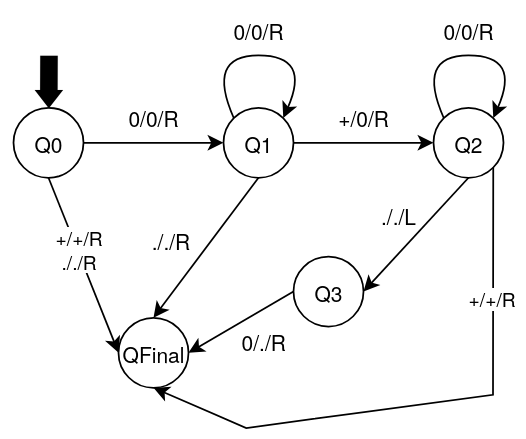
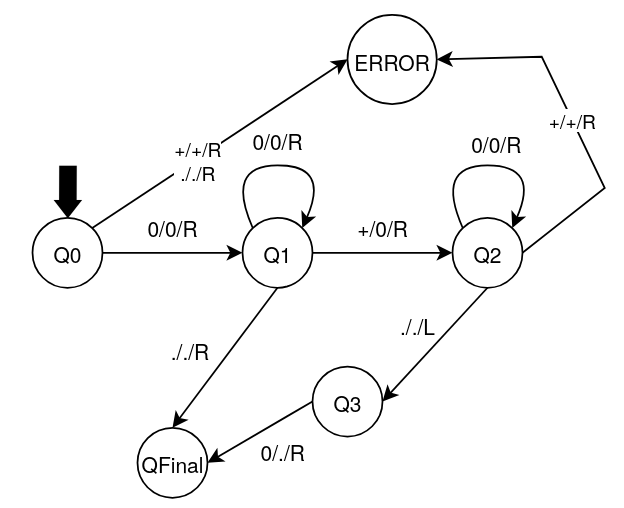
Modify unit test, add a root README and error state to unary_addition machine

diff --git a/README.md b/README.md
@@ -1,2 +1,89 @@
-# 42_ft_turing
-The goal of this project is to write a program able to simulate a single headed, single tape Turing machine from a machine description provided in json.
+# 42 Project - Ft_Turing
+
+## Project Overview
+
+This project implements a Turing Machine simulator using Haskell language, that allows users to define, execute, and visualize Turing Machine computations. A Turing Machine is a fundamental concept in computer science that demonstrates the theoretical limits of computation.
+
+### Features
+
+- Define custom Turing Machine configurations in a json file
+- Execute step-by-step computations
+- Visualize tape operations and state transitions
+
+### Installation Steps
+
+1. Clone the repository:
+   ```bash
+   git clone "REPOSITORY" ft_turing
+   cd ft_turing
+   ```
+
+2. Install dependencies:
+   ```bash
+   cd ressources
+   ./install_tools.sh
+   ```
+
+Tools installed:
+- ghcup 0.1.50.2
+- ghc   9.6.7
+- cabal 3.12.1.0
+
+## Compilation and Execution
+
+### Compiling the Project
+
+```bash
+cabal build
+```
+
+### Running the Project
+
+```bash
+cabal run ftTuring -- "machine.json" "input"
+```
+
+or manually
+```bash
+./dist-newstyle/build/x86_64-linux/ghc-9.6.7/ftTuring-0.1.0.0/x/ftTuring/build/ftTuring/ftTuring --help
+./dist-newstyle/build/x86_64-linux/ghc-9.6.7/ftTuring-0.1.0.0/x/ftTuring/build/ftTuring/ftTuring "machine.json" "input"
+```
+
+### Running Test
+
+```bash
+cabal test
+```
+
+## What is a Turing Machine?
+
+A **Turing Machine** is a mathematical model of computation introduced by Alan Turing in 1936. It serves as a theoretical foundation for understanding what can and cannot be computed.
+
+### Components
+
+A Turing Machine consists of:
+
+1. **Tape**: An infinite strip divided into cells, each containing a symbol from a finite alphabet
+2. **Head**: A read/write mechanism that can move left or right along the tape
+3. **State Register**: Stores the current state of the machine from a finite set of states
+4. **Transition Function**: Defines the machine's behavior based on the current state and symbol
+
+### How It Works
+
+The machine operates in discrete steps:
+
+1. Read the symbol at the current tape position
+2. Based on the current state and symbol, the transition function determines:
+   - A symbol to write at the current position
+   - A direction to move the head (left or right)
+   - The next state to transition to
+3. Repeat until reaching a halt state
+
+## Authors
+
+- **V0lk7 - jduval** - [Developer] - [GitHub](https://github.com/V0lk7)
+- **Rreyth** - [Developer] - [GitHub](https://github.com/Rreyth)
+
+## License
+
+Unlicense

diff --git a/machine/unary_addition/README.md b/machine/unary_addition/README.md
@@ -16,8 +16,8 @@ For example:
 - **Blank Symbol**: `[.]`
 - **Alphabet**: `[0, +] + [.]`
 - **Initial State**: `q0`
-- **Final States**: `HALT`
-- **States**: `q0, q1, q2, q3, HALT`
+- **Final States**: `HALT, ERROR`
+- **States**: `q0, q1, q2, q3, HALT, ERROR`
 
 ## State Descriptions
 
@@ -26,6 +26,7 @@ For example:
 - **q2**: Second number traversal - moves right through the second number after converting '+' to '0', looking for the end of the tape
 - **q3**: Cleanup state - removes the last '0' from the tape to maintain the correct count after merging the two numbers
 - **HALT**: Accepting final state - computation completed successfully
+- **ERROR**: Rejecting final state - computation has stopped with an error
 
 ## How It Works
 
@@ -58,13 +59,13 @@ By replacing '+' with '0' and removing one '0' from the end, we get the correct 
 | Current State | Next State | Read Symbol | Write Symbol | Move Direction |
 |:-------------:|:----------:|:-----------:|:------------:|:--------------:|
 | q0 | q1 | 0 | 0 | RIGHT |
-| q0 | HALT | + | + | RIGHT |
-| q0 | HALT | . | . | RIGHT |
+| q0 | ERROR | + | + | RIGHT |
+| q0 | ERROR | . | . | RIGHT |
 | q1 | q1 | 0 | 0 | RIGHT |
 | q1 | q2 | + | 0 | RIGHT |
 | q1 | HALT | . | . | RIGHT |
 | q2 | q2 | 0 | 0 | RIGHT |
-| q2 | HALT | + | + | RIGHT |
+| q2 | ERROR | + | + | RIGHT |
 | q2 | q3 | . | . | LEFT |
 | q3 | HALT | 0 | . | RIGHT |
 
@@ -92,7 +93,8 @@ To run this Turing machine:
    - Validate the input format
    - Compute the sum
    - Output the result in unary format
-   - Halt in `HALT` state for valid and invalid input
+   - Halt in `HALT` state for valid input
+   - Stop in `ERROR` state for invalid input
 
 ## Unary Number System
 
